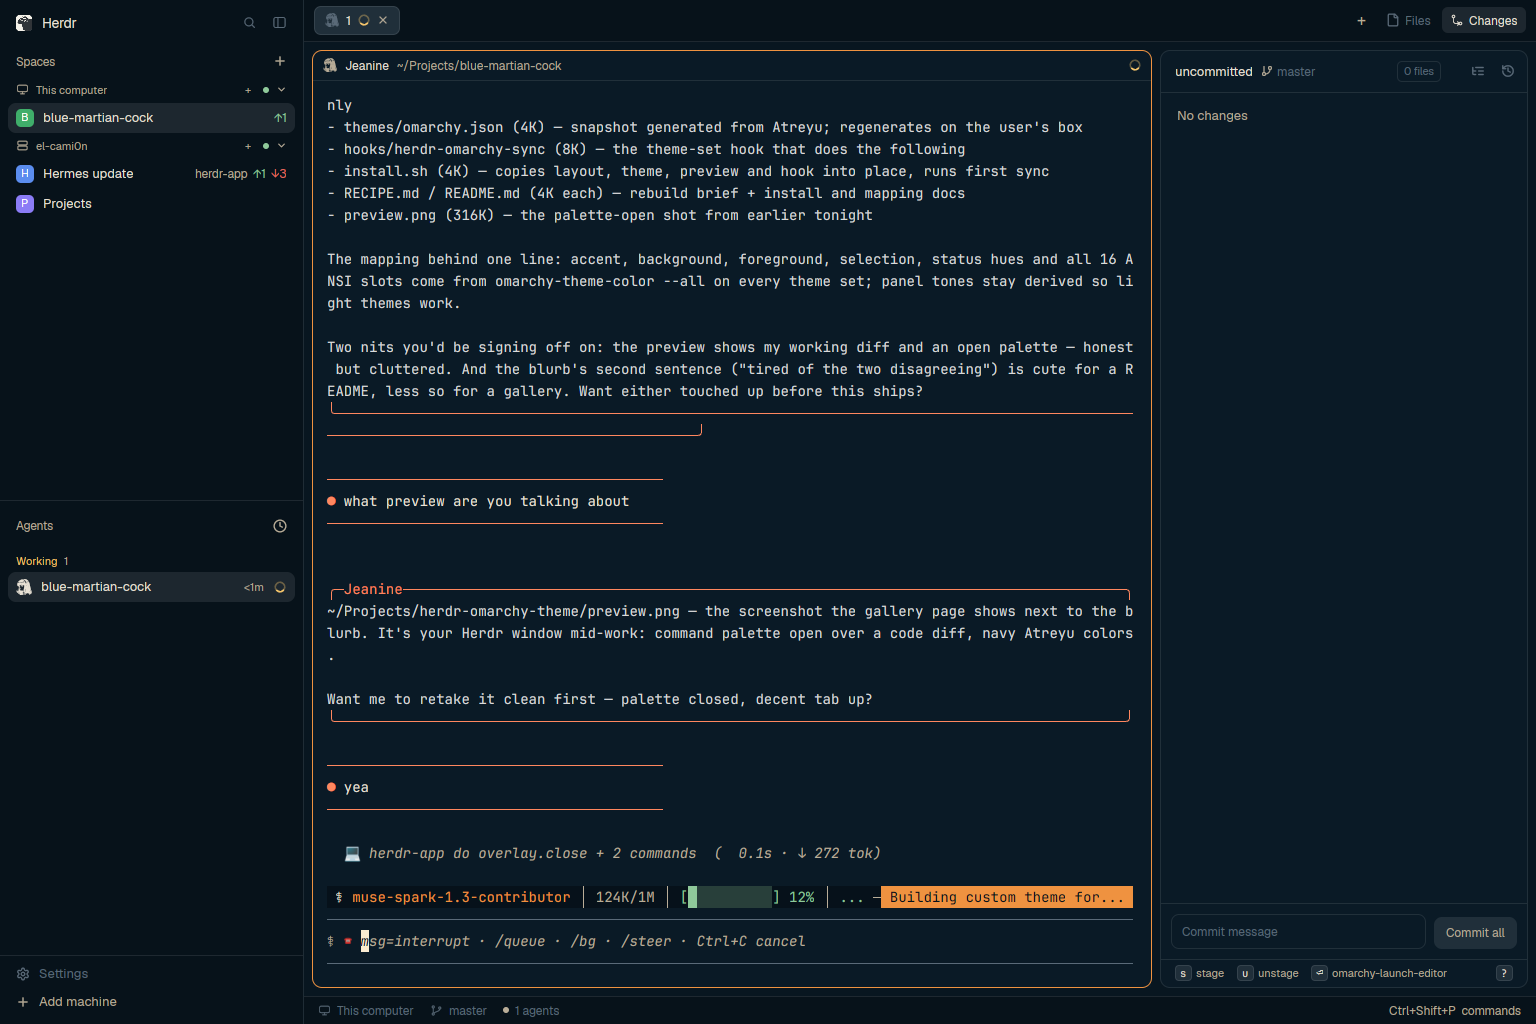
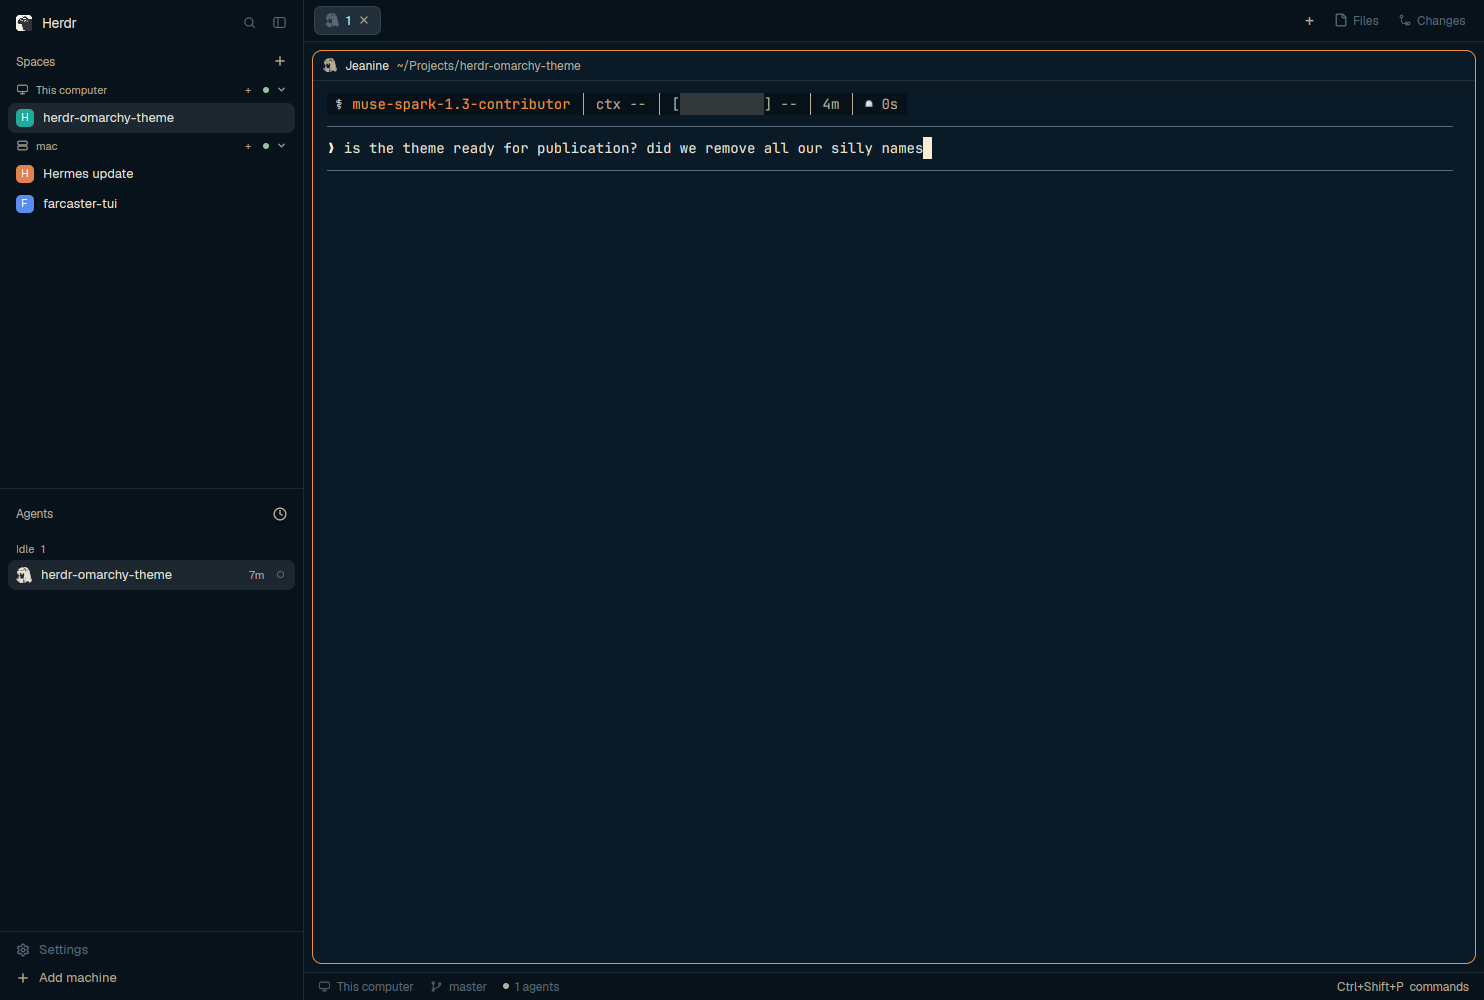
a better preview image

diff --git a/RECIPE.md b/RECIPE.md
@@ -63,7 +63,7 @@ directions, including readable text on accent buttons.
 - `herdr-app check` covers mods, not theme files: validation here is JSON
   parsing plus `herdr-app status` showing empty `errors`.
 - The repo's `preview.png` is a real window shot (`herdr-app shot`), showing
-  the command palette over a diff on Atreyu.
+  the clean window on Atreyu: sidebar, agents, and a single terminal pane.
 
 ## Done when
 
